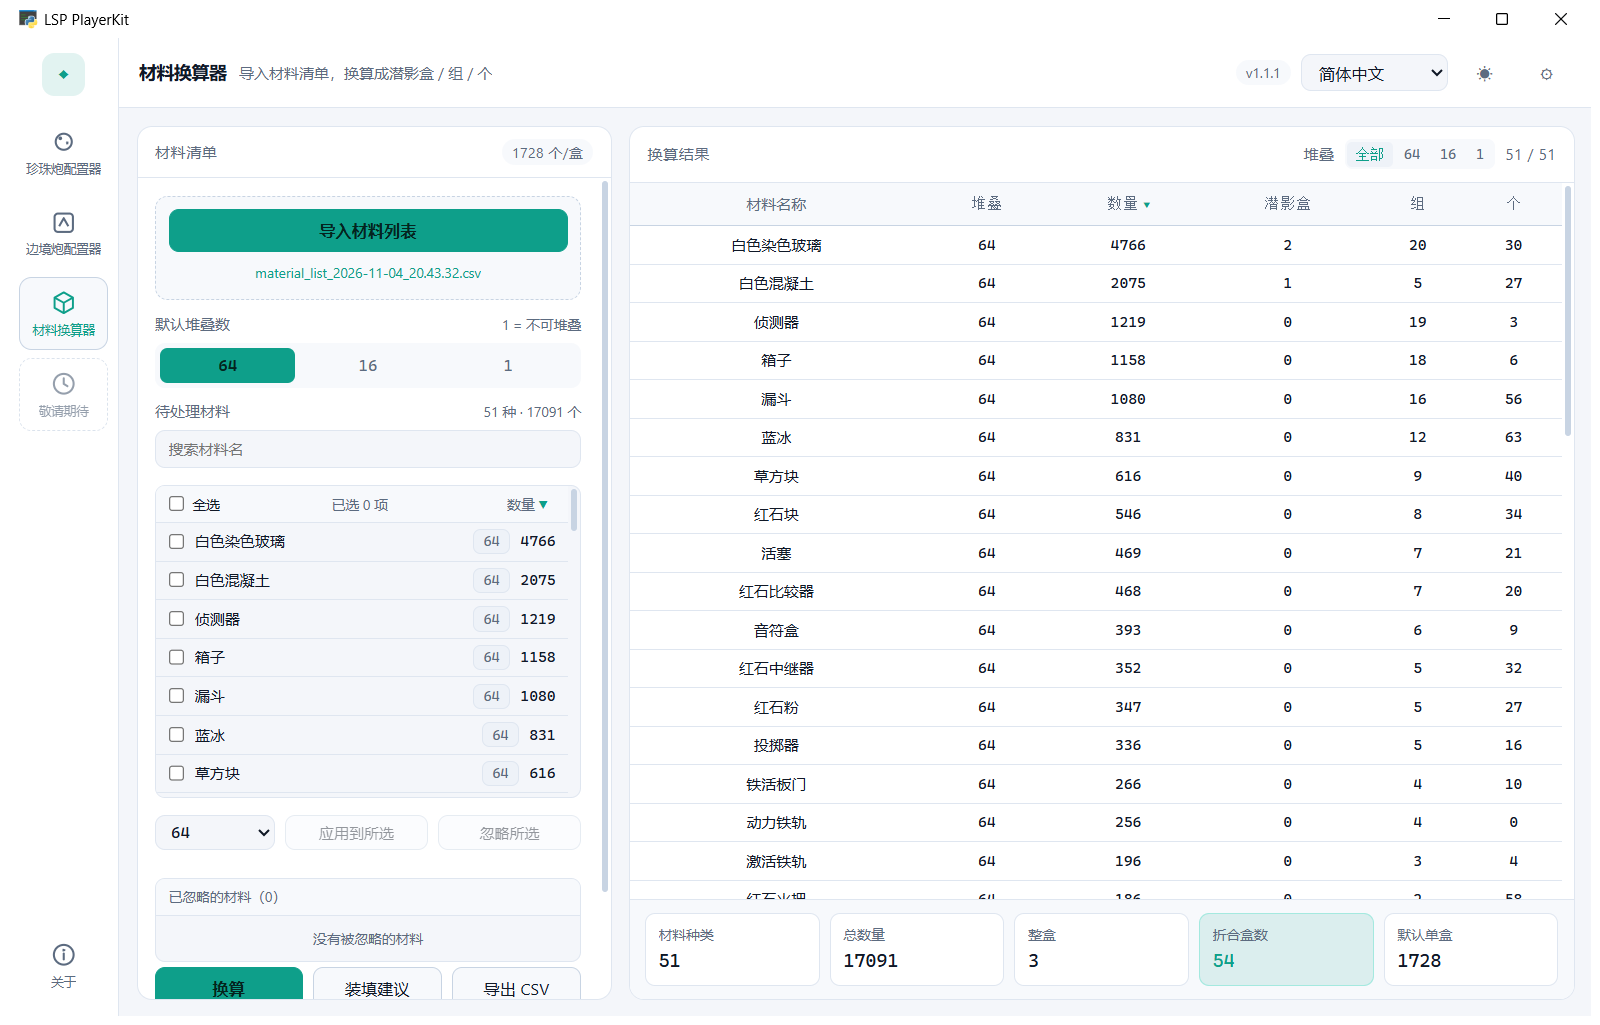
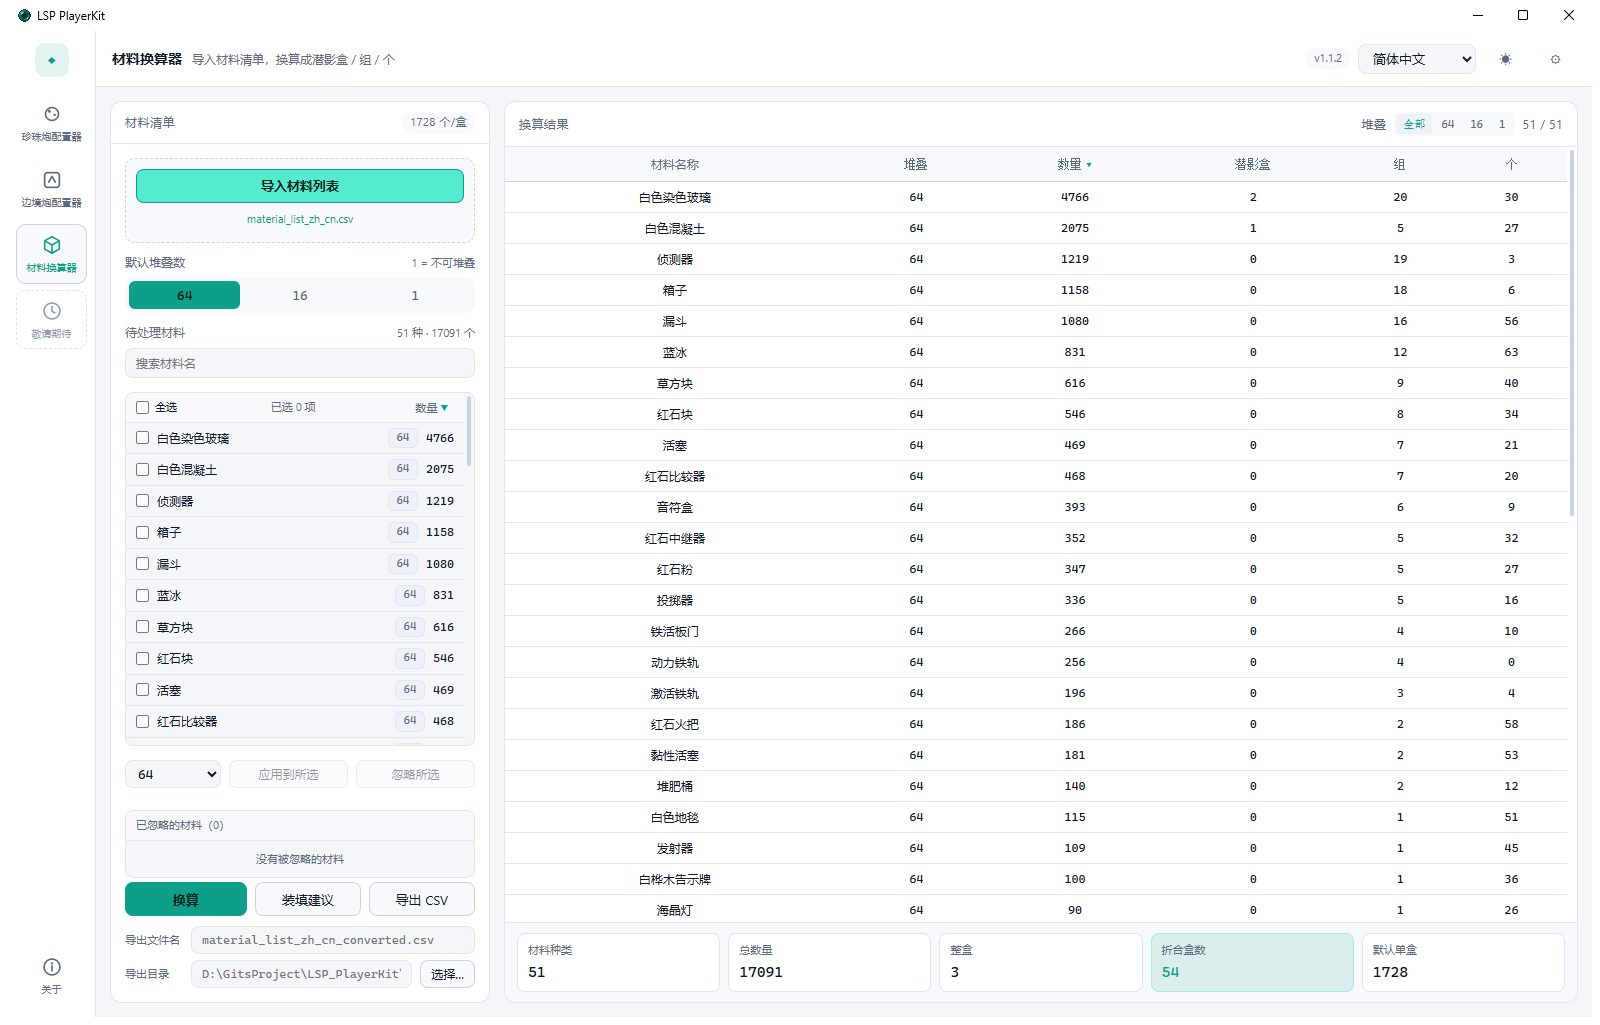
docs: 中英文截图更新为 v1.1.2
- 中文 8 张重拍，数据与存储页统一显示 data 路径
- 新增英文 8 张（README_img/en/），docs/README.en.md 引用同步

diff --git a/docs/README.en.md b/docs/README.en.md
@@ -59,7 +59,7 @@ The window has three parts:
 
 Shortcuts: `Ctrl+1 / Ctrl+2 / Ctrl+3` switch tools, `Ctrl+,` opens settings. Window size and the maximized state are remembered.
 
-![Main window](../README_img/1-main.png)
+![Main window](../README_img/en/1-main.png)
 
 ---
 
@@ -81,7 +81,7 @@ Results and actions:
 - **Simulate** steps the pearl tick by tick for the selected configuration and switches to the **Trace** tab: columns are **tick / X / Y / Z**, and the expected arrival tick is highlighted in orange and scrolled into view.
 - **Save as default** writes the current muzzle, target, max TNT and launch mode back to settings; **Fill from defaults** overwrites the inputs with the saved values.
 
-![Pearl cannon result and trace](../README_img/2-trace.png)
+![Pearl cannon result and trace](../README_img/en/2-trace.png)
 
 ### 2.2 Settings
 
@@ -120,7 +120,7 @@ Click **Calculate TNT**; the table lists three TNT charges and a direction per t
 
 **Save as default** and **Fill from defaults** work the same way as in the pearl cannon.
 
-![Border cannon result](../README_img/5-border.png)
+![Border cannon result](../README_img/en/5-border.png)
 
 ### 3.2 Settings
 
@@ -139,7 +139,7 @@ Click **Calculate TNT**; the table lists three TNT charges and a direction per t
 
 Converts a Litematica material list into **shulker boxes / stacks / items** and produces a loading plan.
 
-![Material converter](../README_img/7-material.png)
+![Material converter](../README_img/en/7-material.png)
 
 ### 4.1 Import a material list
 
@@ -185,7 +185,7 @@ Columns: **Material / Stack / Count / Shulkers / Stacks / Items**.
 - The dialog has two views: **Cards** (one card per box, ≤ 12 boxes by default) and **List** (box index on the left, details on the right, used automatically for larger plans). Switch any time from the title bar; both have their own scrollbars.
 - Each box lists “material · stacks/items · slots”, and **Copy plan** exports the whole plan as text.
 
-![Loading plan](../README_img/8-pack.png)
+![Loading plan](../README_img/en/8-pack.png)
 
 ### 4.7 Export CSV
 
@@ -221,9 +221,9 @@ Click the gear (or press `Ctrl+,`) to open the settings drawer. It has three tab
 
 The **About** tab shows the version, stack, privacy note and license, with shortcuts to the configuration docs and the GitHub repository.
 
-![Settings · Tool options](../README_img/3-settings.png)
+![Settings · Tool options](../README_img/en/3-settings.png)
 
-![About](../README_img/6-about.png)
+![About](../README_img/en/6-about.png)
 
 ---
 
@@ -258,7 +258,7 @@ Other behaviour:
 - **Export / import bundle** produces a zip with every tool and preference.
 - Window size and maximized state are stored in `app.json` and restored on the next launch.
 
-![Data & storage](../README_img/4-storage.png)
+![Data & storage](../README_img/en/4-storage.png)
 
 ---
 
